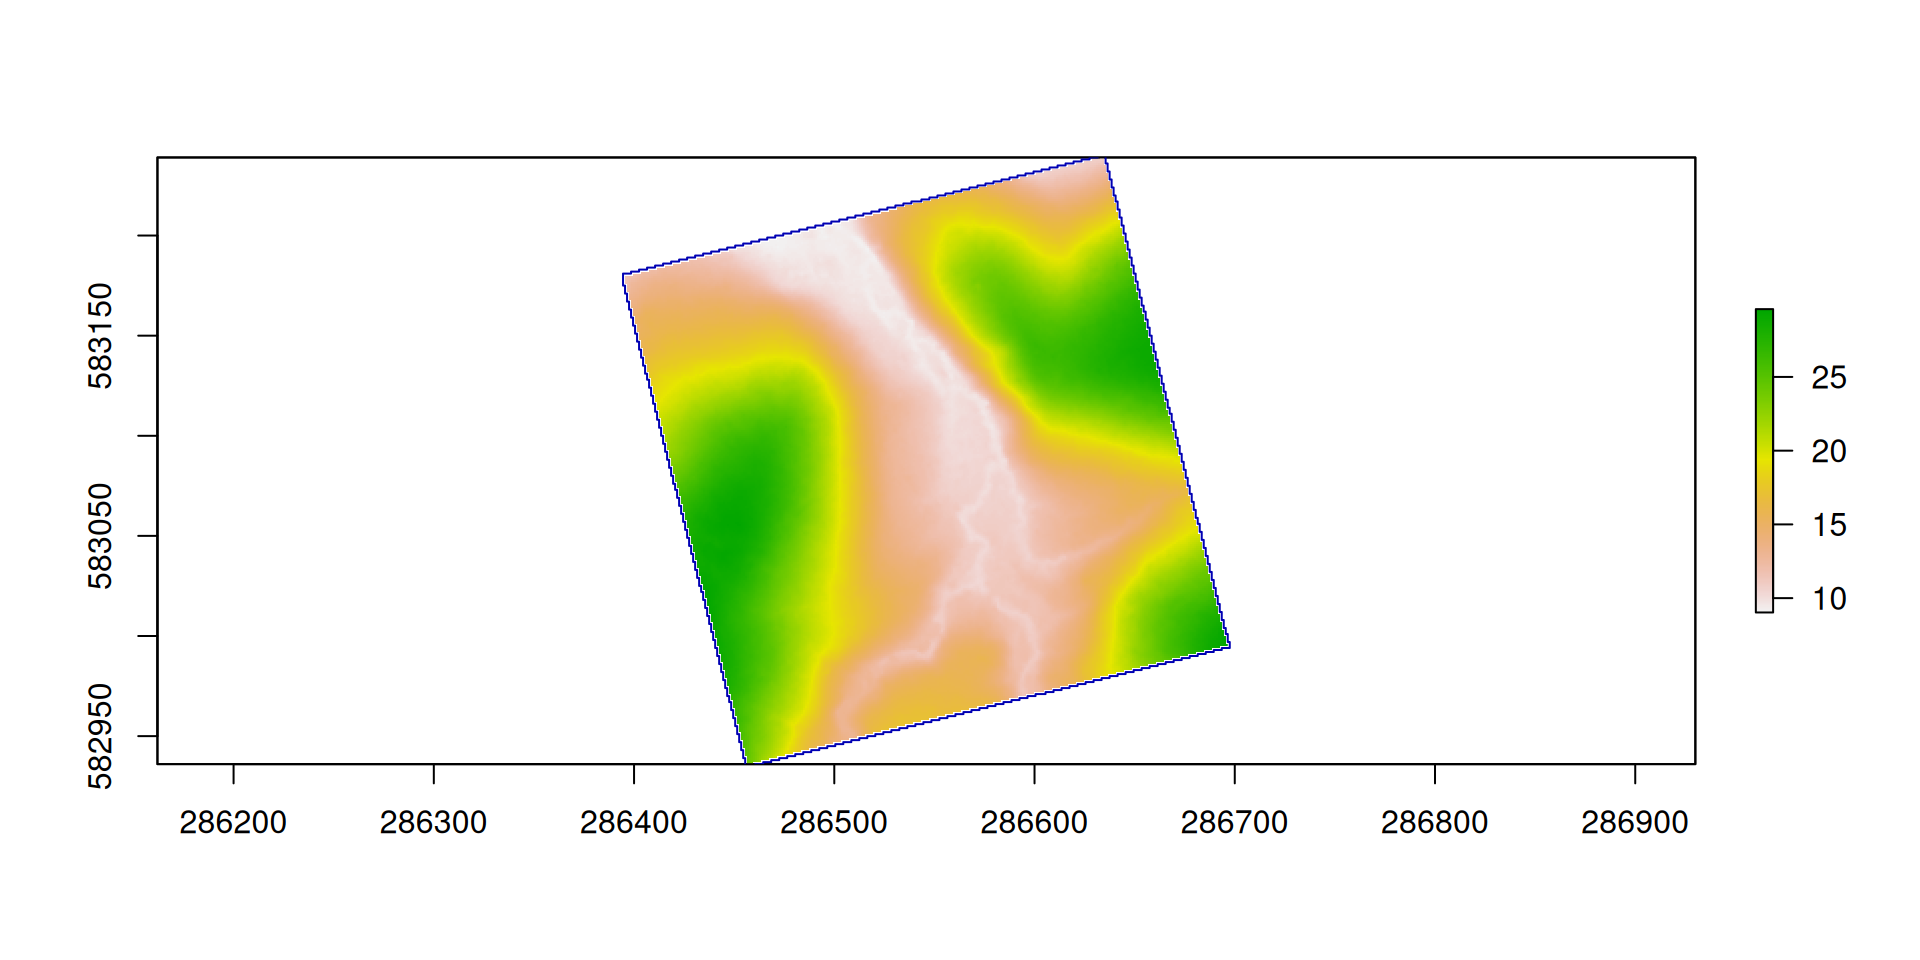
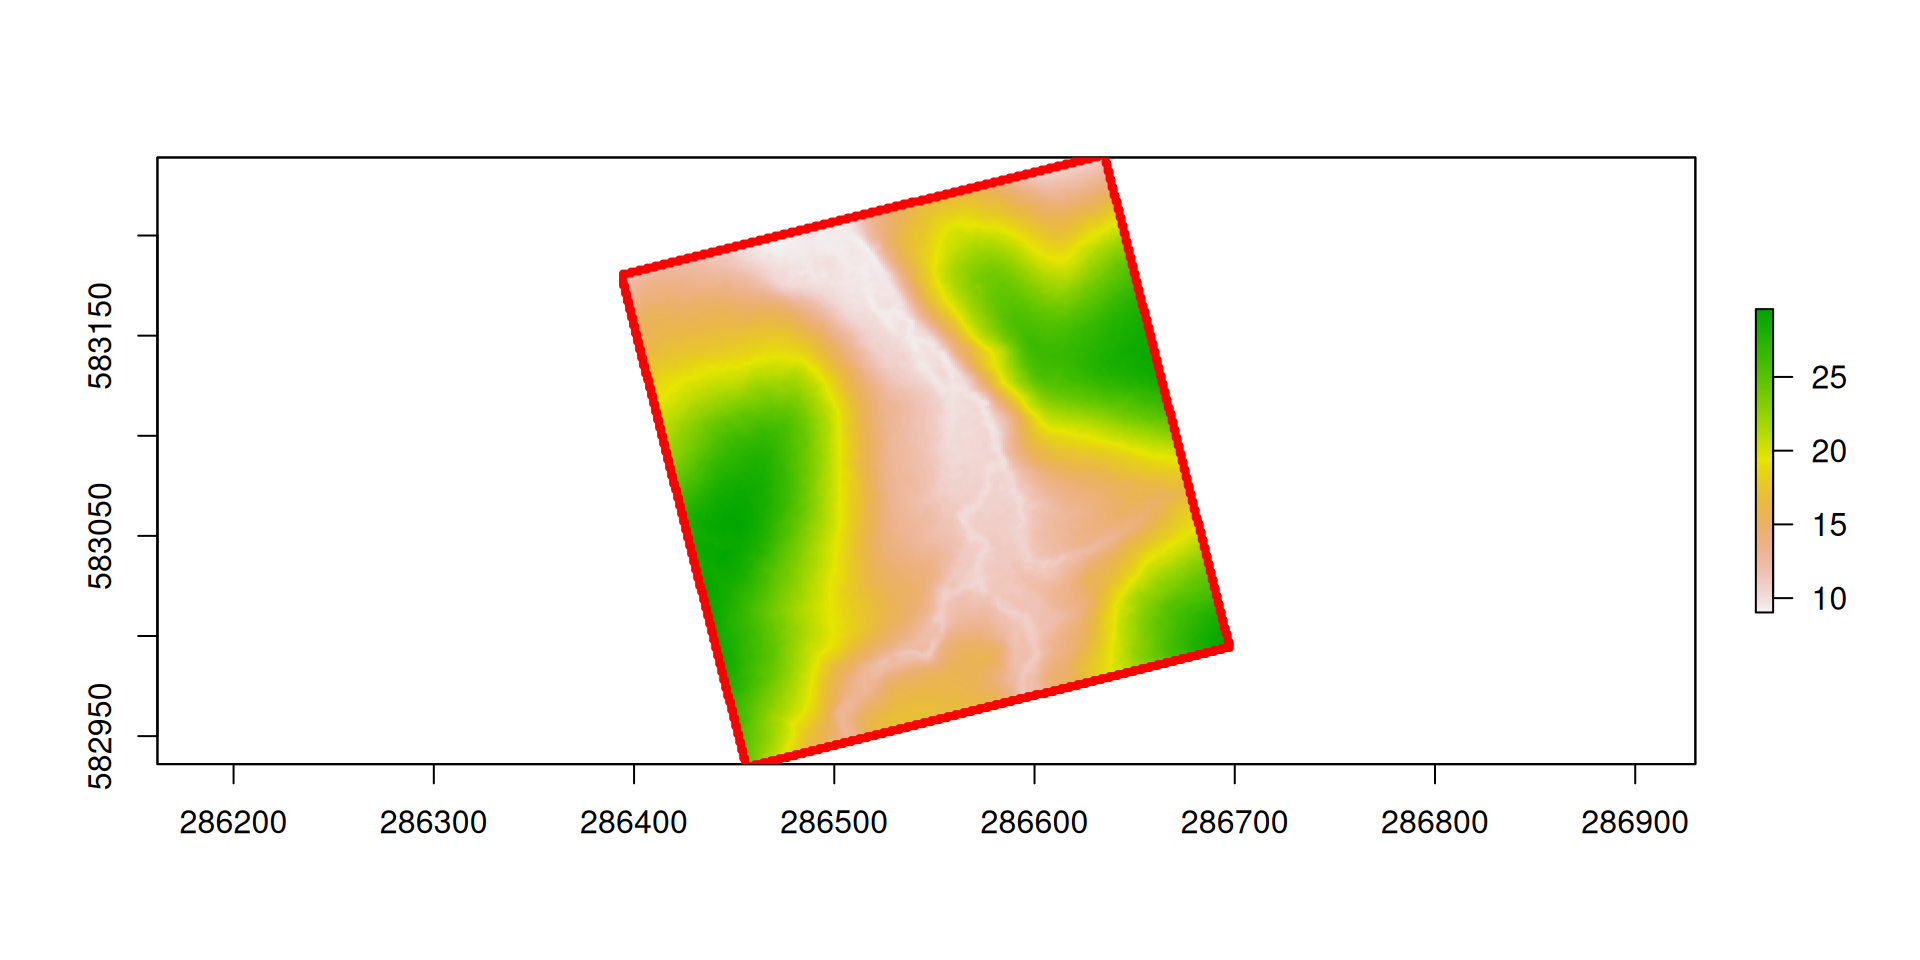
Seminario_LoggingLab 0.1.0.9005: Géraldine's intro adds

diff --git a/index.html b/index.html
@@ -419,12 +419,36 @@ Sylvain Schmitt
 </div>
 </div>
 
-  <p class="date">Oct 9, 2024</p>
+  <p class="date">Oct 11, 2024</p>
 </section>
 <section>
 <section id="introdução" class="title-slide slide level1 center">
 <h1>Introdução</h1>
 
+</section>
+<section id="o-que-o-pacote-faz" class="slide level2">
+<h2>O que o pacote faz?</h2>
+<p>Simulação de corte seletivo usando dados de inventário florestal.</p>
+
+<img data-src="https://ars.els-cdn.com/content/image/1-s2.0-S0304380023002697-ga1_lrg.jpg" class="r-stretch"></section>
+<section id="flowchart-do-pacote" class="slide level2 scrollable">
+<h2>Flowchart do pacote</h2>
+<div class="columns">
+<div class="column" style="width:30%;">
+<p><img data-src="figs/Fig_Flowchart.jpg"></p>
+</div><div class="column" style="width:70%;">
+<ul>
+<li>preparação de dados</li>
+<li>trilhas principais</li>
+<li>áreas colhíveis</li>
+<li>seleção de árvores</li>
+<li>trilhas secundárias</li>
+<li>corte de árvores</li>
+<li>adjacência da trilha secundária</li>
+<li>quantificação de volume</li>
+</ul>
+</div>
+</div>
 </section>
 <section id="instalação-do-pacote" class="slide level2">
 <h2>Instalação do pacote</h2>
@@ -700,12 +724,12 @@ Sylvain Schmitt
 <span id="cb13-7"><a href="#cb13-7"></a>  <span class="fu">head</span>()</span></code><button title="Copy to Clipboard" class="code-copy-button"><i class="bi"></i></button></pre></div>
 <div class="cell-output cell-output-stdout">
 <pre><code>  TreeHarvestableVolume TrunkHeight TreeHeight CrownHeight CrownDiameter
-1             0.1027084    8.272213   14.65595    6.383735      2.310573
-2             1.1181093   10.811462   27.40065   16.589191      8.541983
-3             0.1687473    9.203739   16.78716    7.583417      3.206215
-4             1.3075022   10.860306   28.35561   17.495301      8.196255
-5             0.2230879    9.613873   18.14034    8.526472      3.840410
-6             0.6517747   10.576502   24.12416   13.547658      6.033762
+1             0.1027084    8.272213   14.65595    6.383735      2.370375
+2             1.1181093   10.811462   27.40065   16.589191      8.215510
+3             0.1687473    9.203739   16.78716    7.583417      3.107794
+4             1.3075022   10.860306   28.35561   17.495301      8.413374
+5             0.2230879    9.613873   18.14034    8.526472      3.524954
+6             0.6517747   10.576502   24.12416   13.547658      6.441284
   WoodDensity       AGB
 1   0.7700000 0.1003184
 2   0.7040000 1.3401159
@@ -719,10 +743,10 @@ Sylvain Schmitt
 <section id="principais-trilhas-de-derrapagem" class="slide level2">
 <h2>Principais trilhas de derrapagem</h2>
 <p>Gere a trilha principal do terreno inventariado, como linhas na borda e fora do terreno.</p>
-<div class="cell" data-hash="index_cache/revealjs/maintrail_b105c0b38d859b30fb1aa12612dfe9a1">
+<div class="cell" data-hash="index_cache/revealjs/maintrail_d21d726deae4b0989b9261117928e48c">
 <div class="sourceCode cell-code" id="cb15"><pre class="sourceCode numberSource r number-lines code-with-copy"><code class="sourceCode r"><span id="cb15-1"><a href="#cb15-1"></a>MainTrails <span class="ot">&lt;-</span> <span class="fu">maintrailextract</span>(DTMParacou)</span>
 <span id="cb15-2"><a href="#cb15-2"></a>sp<span class="sc">::</span><span class="fu">plot</span>(DTMParacou)</span>
-<span id="cb15-3"><a href="#cb15-3"></a>sp<span class="sc">::</span><span class="fu">plot</span>(MainTrails, <span class="at">add =</span> <span class="cn">TRUE</span>)</span></code><button title="Copy to Clipboard" class="code-copy-button"><i class="bi"></i></button></pre></div>
+<span id="cb15-3"><a href="#cb15-3"></a>sp<span class="sc">::</span><span class="fu">plot</span>(MainTrails, <span class="at">add =</span> <span class="cn">TRUE</span>, <span class="at">lwd=</span><span class="dv">4</span>, <span class="at">col=</span><span class="st">"red"</span>)</span></code><button title="Copy to Clipboard" class="code-copy-button"><i class="bi"></i></button></pre></div>
 
 </div>
 <img data-src="index_files/figure-revealjs/maintrail-1.png" width="960" class="r-stretch"></section>

diff --git a/NEWS.md b/NEWS.md
@@ -1,3 +1,4 @@
+-   Seminario_LoggingLab 0.1.0.9005: Géraldine's intro adds
 -   Seminario_LoggingLab 0.1.0.9004: todas v0, bug in secondtrailsadjusted and loggingsummary1 without fuelwood
 -   Seminario_LoggingLab 0.1.0.9003: entradas v0
 -   Seminario_LoggingLab 0.1.0.9002: renv
